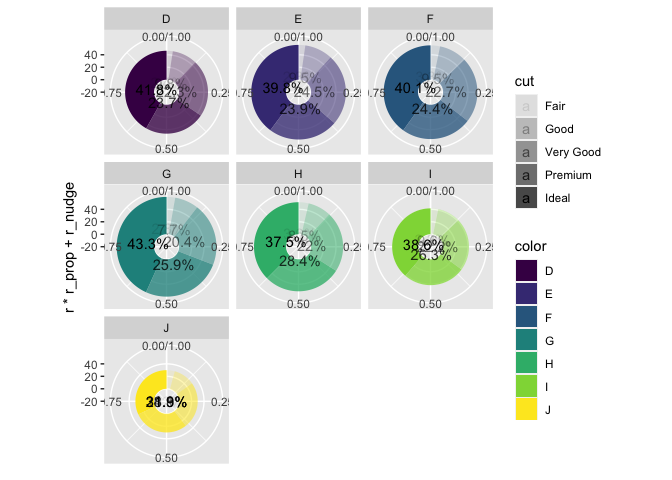
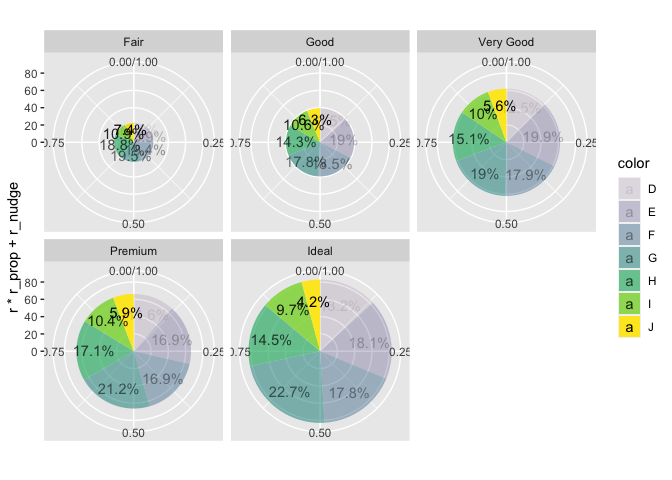
fixing r being defined (ymax was overwritten but we also want r var overwritten)

diff --git a/README.md b/README.md
@@ -100,18 +100,21 @@ compute_panel_pie <- function(data, scales, digits = 1, r_nudge = 0, r_prop = 1)
   if("linewidth" %in% names(data)){data <- group_by(data, linewidth, .add = T)}
   
 out <- data %>% 
-  summarize(wt = sum(weight)) %>% 
+  summarize(weight = sum(weight)) %>% 
   ungroup() %>% 
   mutate(group = 1:n()) %>% 
-  mutate(cum_n = cumsum(.data$wt)) %>% 
-  mutate(xmax = .data$cum_n/sum(.data$wt)) %>% 
+  mutate(cum_n = cumsum(.data$weight)) %>% 
+  mutate(xmax = .data$cum_n/sum(.data$weight)) %>% 
   mutate(xmin = lag(.data$xmax)) %>% 
   mutate(xmin = replace_na(.data$xmin, 0)) %>% 
-  mutate(r = sqrt(sum(.data$wt)/pi)) %>% 
+  mutate(r = sqrt(sum(.data$weight)/pi)) %>% 
   mutate(r0 = 0) %>% 
-  mutate(ymin = 0, ymax = .data$r) 
+  mutate(ymin = 0, 
+         ymax = .data$r) 
+
 
   if("r" %in% names(data)){out$ymax <- data$r[1]}
+  if("r" %in% names(data)){out$r <- data$r[1]}
   if("r0" %in% names(data)){out$ymin <- data$r0[1]}
   # idea that didn't work and I don't know why
   # since rect doesn't use x and y (but xmin xmax etc) this is not as interesting
@@ -121,7 +124,7 @@ out <- data %>%
 
 # routine for labels; we do this after r's overridden because y is computed based on this...
 out <- out %>% 
-  mutate(prop = .data$wt/sum(.data$wt)) %>% 
+  mutate(prop = .data$weight/sum(.data$weight)) %>% 
   mutate(percent = paste0(round(100*.data$prop, digits), "%")) %>% 
   mutate(r_prop = r_prop) %>% 
   mutate(r_nudge = r_nudge) %>% 
@@ -159,13 +162,13 @@ ggplot2::diamonds |>
   mutate(r0 = .5) |> 
   compute_panel_pie(r_nudge = 2)
 #> # A tibble: 5 × 16
-#>   fill       wt group cum_n   xmax   xmin     r    r0  ymin  ymax   prop percent
+#>   fill   weight group cum_n   xmax   xmin     r    r0  ymin  ymax   prop percent
 #>   <ord>   <dbl> <int> <dbl>  <dbl>  <dbl> <dbl> <dbl> <dbl> <dbl>  <dbl> <chr>  
-#> 1 Fair     1610     1  1610 0.0298 0       131.     0   0.5     1 0.0298 3%     
-#> 2 Good     4906     2  6516 0.121  0.0298  131.     0   0.5     1 0.0910 9.1%   
-#> 3 Very G… 12082     3 18598 0.345  0.121   131.     0   0.5     1 0.224  22.4%  
-#> 4 Premium 13791     4 32389 0.600  0.345   131.     0   0.5     1 0.256  25.6%  
-#> 5 Ideal   21551     5 53940 1      0.600   131.     0   0.5     1 0.400  40%    
+#> 1 Fair     1610     1  1610 0.0298 0          1     0   0.5     1 0.0298 3%     
+#> 2 Good     4906     2  6516 0.121  0.0298     1     0   0.5     1 0.0910 9.1%   
+#> 3 Very …  12082     3 18598 0.345  0.121      1     0   0.5     1 0.224  22.4%  
+#> 4 Premi…  13791     4 32389 0.600  0.345      1     0   0.5     1 0.256  25.6%  
+#> 5 Ideal   21551     5 53940 1      0.600      1     0   0.5     1 0.400  40%    
 #> # ℹ 4 more variables: r_prop <dbl>, r_nudge <dbl>, x <dbl>, y <dbl>
 ```
 
@@ -234,39 +237,11 @@ ggplot2::diamonds %>%
 
 ``` r
 
-layer_data()
-#> `summarise()` has grouped output by 'fill'. You can override using the
-#> `.groups` argument.
-#>        fill       y group label PANEL    wt cum_n      xmax      xmin       r
-#> 1 #440154FF 131.033     1 12.6%     1  6775  6775 0.1256025 0.0000000 131.033
-#> 2 #443A83FF 131.033     2 18.2%     1  9797 16572 0.3072303 0.1256025 131.033
-#> 3 #31688EFF 131.033     3 17.7%     1  9542 26114 0.4841305 0.3072303 131.033
-#> 4 #21908CFF 131.033     4 20.9%     1 11292 37406 0.6934742 0.4841305 131.033
-#> 5 #35B779FF 131.033     5 15.4%     1  8304 45710 0.8474231 0.6934742 131.033
-#> 6 #8FD744FF 131.033     6 10.1%     1  5422 51132 0.9479422 0.8474231 131.033
-#> 7 #FDE725FF 131.033     7  5.2%     1  2808 53940 1.0000000 0.9479422 131.033
-#>   r0 ymin    ymax       prop percent r_prop r_nudge          x colour linewidth
-#> 1  0    0 131.033 0.12560252   12.6%      1       0 0.06280126     NA       0.5
-#> 2  0    0 131.033 0.18162773   18.2%      1       0 0.21641639     NA       0.5
-#> 3  0    0 131.033 0.17690026   17.7%      1       0 0.39568039     NA       0.5
-#> 4  0    0 131.033 0.20934372   20.9%      1       0 0.58880237     NA       0.5
-#> 5  0    0 131.033 0.15394883   15.4%      1       0 0.77044865     NA       0.5
-#> 6  0    0 131.033 0.10051910   10.1%      1       0 0.89768261     NA       0.5
-#> 7  0    0 131.033 0.05205784    5.2%      1       0 0.97397108     NA       0.5
-#>   linetype alpha
-#> 1        1    NA
-#> 2        1    NA
-#> 3        1    NA
-#> 4        1    NA
-#> 5        1    NA
-#> 6        1    NA
-#> 7        1    NA
-
 ggplot2::diamonds %>% 
   ggplot() + 
   aes(fill = color) + 
   geom_pie() + 
-  geom_pie_label(r_nudge = -50) +
+  geom_pie_label(r_prop = .7) +
   coord_polar() +
   NULL
 #> `summarise()` has grouped output by 'fill'. You can override using the
@@ -279,41 +254,27 @@ ggplot2::diamonds %>%
 
 ``` r
 
-layer_data()
-#> `summarise()` has grouped output by 'fill'. You can override using the
-#> `.groups` argument.
-#> `summarise()` has grouped output by 'fill'. You can override using the
-#> `.groups` argument.
-#>        fill       y group label PANEL    wt cum_n      xmax      xmin       r
-#> 1 #440154FF 131.033     1 12.6%     1  6775  6775 0.1256025 0.0000000 131.033
-#> 2 #443A83FF 131.033     2 18.2%     1  9797 16572 0.3072303 0.1256025 131.033
-#> 3 #31688EFF 131.033     3 17.7%     1  9542 26114 0.4841305 0.3072303 131.033
-#> 4 #21908CFF 131.033     4 20.9%     1 11292 37406 0.6934742 0.4841305 131.033
-#> 5 #35B779FF 131.033     5 15.4%     1  8304 45710 0.8474231 0.6934742 131.033
-#> 6 #8FD744FF 131.033     6 10.1%     1  5422 51132 0.9479422 0.8474231 131.033
-#> 7 #FDE725FF 131.033     7  5.2%     1  2808 53940 1.0000000 0.9479422 131.033
-#>   r0 ymin    ymax       prop percent r_prop r_nudge          x colour linewidth
-#> 1  0    0 131.033 0.12560252   12.6%      1       0 0.06280126     NA       0.5
-#> 2  0    0 131.033 0.18162773   18.2%      1       0 0.21641639     NA       0.5
-#> 3  0    0 131.033 0.17690026   17.7%      1       0 0.39568039     NA       0.5
-#> 4  0    0 131.033 0.20934372   20.9%      1       0 0.58880237     NA       0.5
-#> 5  0    0 131.033 0.15394883   15.4%      1       0 0.77044865     NA       0.5
-#> 6  0    0 131.033 0.10051910   10.1%      1       0 0.89768261     NA       0.5
-#> 7  0    0 131.033 0.05205784    5.2%      1       0 0.97397108     NA       0.5
-#>   linetype alpha
-#> 1        1    NA
-#> 2        1    NA
-#> 3        1    NA
-#> 4        1    NA
-#> 5        1    NA
-#> 6        1    NA
-#> 7        1    NA
-
 last_plot() + 
-  aes(alpha = cut)
-#> `summarise()` has grouped output by 'fill', 'alpha'. You can override using the
+  facet_wrap(~cut)
+#> `summarise()` has grouped output by 'fill'. You can override using the
 #> `.groups` argument.
-#> `summarise()` has grouped output by 'fill', 'alpha'. You can override using the
+#> `summarise()` has grouped output by 'fill'. You can override using the
+#> `.groups` argument.
+#> `summarise()` has grouped output by 'fill'. You can override using the
+#> `.groups` argument.
+#> `summarise()` has grouped output by 'fill'. You can override using the
+#> `.groups` argument.
+#> `summarise()` has grouped output by 'fill'. You can override using the
+#> `.groups` argument.
+#> `summarise()` has grouped output by 'fill'. You can override using the
+#> `.groups` argument.
+#> `summarise()` has grouped output by 'fill'. You can override using the
+#> `.groups` argument.
+#> `summarise()` has grouped output by 'fill'. You can override using the
+#> `.groups` argument.
+#> `summarise()` has grouped output by 'fill'. You can override using the
+#> `.groups` argument.
+#> `summarise()` has grouped output by 'fill'. You can override using the
 #> `.groups` argument.
 ```
 
@@ -322,15 +283,7 @@ last_plot() +
 ``` r
 
 last_plot() + 
-  facet_wrap(~color)
-#> `summarise()` has grouped output by 'fill', 'alpha'. You can override using the
-#> `.groups` argument.
-#> `summarise()` has grouped output by 'fill', 'alpha'. You can override using the
-#> `.groups` argument.
-#> `summarise()` has grouped output by 'fill', 'alpha'. You can override using the
-#> `.groups` argument.
-#> `summarise()` has grouped output by 'fill', 'alpha'. You can override using the
-#> `.groups` argument.
+  aes(alpha = color)
 #> `summarise()` has grouped output by 'fill', 'alpha'. You can override using the
 #> `.groups` argument.
 #> `summarise()` has grouped output by 'fill', 'alpha'. You can override using the
@@ -357,88 +310,32 @@ last_plot() +
 
 ``` r
 
-last_plot() +
-  facet_wrap(~color) + 
-  coord_cartesian()
-#> Coordinate system already present. Adding new coordinate system, which will
-#> replace the existing one.
-#> `summarise()` has grouped output by 'fill', 'alpha'. You can override using the `.groups` argument.
-#> `summarise()` has grouped output by 'fill', 'alpha'. You can override using the `.groups` argument.
-#> `summarise()` has grouped output by 'fill', 'alpha'. You can override using the `.groups` argument.
-#> `summarise()` has grouped output by 'fill', 'alpha'. You can override using the `.groups` argument.
-#> `summarise()` has grouped output by 'fill', 'alpha'. You can override using the `.groups` argument.
-#> `summarise()` has grouped output by 'fill', 'alpha'. You can override using the `.groups` argument.
-#> `summarise()` has grouped output by 'fill', 'alpha'. You can override using the `.groups` argument.
-#> `summarise()` has grouped output by 'fill', 'alpha'. You can override using the `.groups` argument.
-#> `summarise()` has grouped output by 'fill', 'alpha'. You can override using the `.groups` argument.
-#> `summarise()` has grouped output by 'fill', 'alpha'. You can override using the `.groups` argument.
-#> `summarise()` has grouped output by 'fill', 'alpha'. You can override using the `.groups` argument.
-#> `summarise()` has grouped output by 'fill', 'alpha'. You can override using the `.groups` argument.
-#> `summarise()` has grouped output by 'fill', 'alpha'. You can override using the `.groups` argument.
-#> `summarise()` has grouped output by 'fill', 'alpha'. You can override using the `.groups` argument.
+last_plot() + 
+  aes(alpha = NULL) + 
+  aes(r = 1)
+#> `summarise()` has grouped output by 'fill'. You can override using the
+#> `.groups` argument.
+#> `summarise()` has grouped output by 'fill'. You can override using the
+#> `.groups` argument.
+#> `summarise()` has grouped output by 'fill'. You can override using the
+#> `.groups` argument.
+#> `summarise()` has grouped output by 'fill'. You can override using the
+#> `.groups` argument.
+#> `summarise()` has grouped output by 'fill'. You can override using the
+#> `.groups` argument.
+#> `summarise()` has grouped output by 'fill'. You can override using the
+#> `.groups` argument.
+#> `summarise()` has grouped output by 'fill'. You can override using the
+#> `.groups` argument.
+#> `summarise()` has grouped output by 'fill'. You can override using the
+#> `.groups` argument.
+#> `summarise()` has grouped output by 'fill'. You can override using the
+#> `.groups` argument.
+#> `summarise()` has grouped output by 'fill'. You can override using the
+#> `.groups` argument.
 ```
 
 ![](README_files/figure-gfm/unnamed-chunk-4-5.png)<!-- -->
-
-``` r
-
-last_plot() + 
-  coord_polar()
-#> Coordinate system already present. Adding new coordinate system, which will
-#> replace the existing one.
-#> `summarise()` has grouped output by 'fill', 'alpha'. You can override using the `.groups` argument.
-#> `summarise()` has grouped output by 'fill', 'alpha'. You can override using the `.groups` argument.
-#> `summarise()` has grouped output by 'fill', 'alpha'. You can override using the `.groups` argument.
-#> `summarise()` has grouped output by 'fill', 'alpha'. You can override using the `.groups` argument.
-#> `summarise()` has grouped output by 'fill', 'alpha'. You can override using the `.groups` argument.
-#> `summarise()` has grouped output by 'fill', 'alpha'. You can override using the `.groups` argument.
-#> `summarise()` has grouped output by 'fill', 'alpha'. You can override using the `.groups` argument.
-#> `summarise()` has grouped output by 'fill', 'alpha'. You can override using the `.groups` argument.
-#> `summarise()` has grouped output by 'fill', 'alpha'. You can override using the `.groups` argument.
-#> `summarise()` has grouped output by 'fill', 'alpha'. You can override using the `.groups` argument.
-#> `summarise()` has grouped output by 'fill', 'alpha'. You can override using the `.groups` argument.
-#> `summarise()` has grouped output by 'fill', 'alpha'. You can override using the `.groups` argument.
-#> `summarise()` has grouped output by 'fill', 'alpha'. You can override using the `.groups` argument.
-#> `summarise()` has grouped output by 'fill', 'alpha'. You can override using the `.groups` argument.
-```
-
-![](README_files/figure-gfm/unnamed-chunk-4-6.png)<!-- -->
-
-``` r
-
-last_plot() + 
-  aes(r = 1, r0 = .5)
-#> `summarise()` has grouped output by 'fill', 'alpha'. You can override using the
-#> `.groups` argument.
-#> `summarise()` has grouped output by 'fill', 'alpha'. You can override using the
-#> `.groups` argument.
-#> `summarise()` has grouped output by 'fill', 'alpha'. You can override using the
-#> `.groups` argument.
-#> `summarise()` has grouped output by 'fill', 'alpha'. You can override using the
-#> `.groups` argument.
-#> `summarise()` has grouped output by 'fill', 'alpha'. You can override using the
-#> `.groups` argument.
-#> `summarise()` has grouped output by 'fill', 'alpha'. You can override using the
-#> `.groups` argument.
-#> `summarise()` has grouped output by 'fill', 'alpha'. You can override using the
-#> `.groups` argument.
-#> `summarise()` has grouped output by 'fill', 'alpha'. You can override using the
-#> `.groups` argument.
-#> `summarise()` has grouped output by 'fill', 'alpha'. You can override using the
-#> `.groups` argument.
-#> `summarise()` has grouped output by 'fill', 'alpha'. You can override using the
-#> `.groups` argument.
-#> `summarise()` has grouped output by 'fill', 'alpha'. You can override using the
-#> `.groups` argument.
-#> `summarise()` has grouped output by 'fill', 'alpha'. You can override using the
-#> `.groups` argument.
-#> `summarise()` has grouped output by 'fill', 'alpha'. You can override using the
-#> `.groups` argument.
-#> `summarise()` has grouped output by 'fill', 'alpha'. You can override using the
-#> `.groups` argument.
-```
-
-![](README_files/figure-gfm/unnamed-chunk-4-7.png)<!-- -->
 
 ``` r
 
@@ -452,21 +349,22 @@ ggplot2::diamonds %>%
 #> `.groups` argument.
 ```
 
-![](README_files/figure-gfm/unnamed-chunk-4-8.png)<!-- -->
+![](README_files/figure-gfm/unnamed-chunk-4-6.png)<!-- -->
 
 ``` r
 
 last_plot() + 
-  geom_pie_label(aes(label = after_stat(wt), angle = after_stat(c(85,0,0,0,0))),
-                 r_prop = .7, 
-                 color = "oldlace")
+  geom_pie_label(aes(label = after_stat(weight), 
+                     angle = after_stat(c(85,0,0,0,0))),
+                r_prop = .7, 
+                color = "oldlace")
 #> `summarise()` has grouped output by 'fill'. You can override using the
 #> `.groups` argument.
 #> `summarise()` has grouped output by 'fill'. You can override using the
 #> `.groups` argument.
 ```
 
-![](README_files/figure-gfm/unnamed-chunk-4-9.png)<!-- -->
+![](README_files/figure-gfm/unnamed-chunk-4-7.png)<!-- -->
 
 # Part II. Packaging and documentation 🚧 ✅
 
@@ -591,7 +489,7 @@ test_that("calc frequency works", {
   expect_equal(220*1, 220)
   
 })
-#> Test passed 🎊
+#> Test passed 🌈
 ```
 
 ``` r
